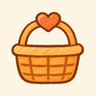
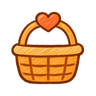
fix: remove illustration background blocks and normalize iOS arrows

diff --git a/cloudfunctions/shop/studio.js b/cloudfunctions/shop/studio.js
@@ -1,8 +1,9 @@
 (function(root,factory){if(typeof module==='object'&&module.exports)module.exports=factory();else root.Studio=factory();})(this,function(){
-const assets=[['kigi-cat-cute','可爱猫咪入口图','分类'],['kigi-dog-cute','可爱狗狗入口图','分类'],['kigi-cafe-hero','猫咪咖啡师与烘焙小狗','横幅'],['kigi-logo','商家官方标志','品牌'],['hero-v2','猫狗日常','横幅'],['hero-calm-v3','午后猫咪','横幅'],['cat-v2','猫咪肖像','分类'],['dog-v2','狗狗肖像','分类'],['food-v2','主粮示意','商品'],['toy-v2','绳结玩具','商品'],['care-v2','日常梳理','商品'],['empty-v2','猫咪与收纳篮','场景'],['bowl-v3','陶瓷食碗','商品'],['bed-v3','柔软窝垫','商品'],['snack-v3','冻干零食','商品']].map(([id,name,kind])=>({id,name,kind,src:'/assets/'+id+(['kigi-cat-cute','kigi-dog-cute'].includes(id)?'.png':'.jpg')}));
+const assets=[['kigi-cat-cute','可爱猫咪入口图','分类'],['kigi-dog-cute','可爱狗狗入口图','分类'],['kigi-cafe-hero','猫咪咖啡师与烘焙小狗','横幅'],['kigi-logo','商家官方标志','品牌'],['hero-v2','猫狗日常','横幅'],['hero-calm-v3','午后猫咪','横幅'],['cat-v2','猫咪肖像','分类'],['dog-v2','狗狗肖像','分类'],['food-v2','主粮示意','商品'],['toy-v2','绳结玩具','商品'],['care-v2','日常梳理','商品'],['empty-v2','猫咪与收纳篮','场景'],['bowl-v3','陶瓷食碗','商品'],['bed-v3','柔软窝垫','商品'],['snack-v3','冻干零食','商品']].map(([id,name,kind])=>({id,name,kind,src:'/assets/'+id+(['kigi-cat-cute','kigi-dog-cute','kigi-logo'].includes(id)?'.png':'.jpg')}));
 assets.push({id:'catalog-bakery',name:'手作烘焙插画示意',kind:'商品',src:'/assets/catalog-bakery.jpg'});
+assets.push({id:'kigi-logo-legacy',name:'官方标志（旧版）',kind:'品牌',src:'/assets/kigi-logo.jpg'},{id:'empty',name:'透明空状态插画',kind:'场景',src:'/assets/empty.png'});
 const slots=[{key:'hero',name:'首页主视觉',hint:'建议横向构图，左侧留空放标题'},{key:'cat',name:'猫咪用品入口图片',hint:'建议正方形，主体居中'},{key:'dog',name:'狗狗用品入口图片',hint:'建议正方形，主体居中'},{key:'care',name:'清洁分类图片',hint:'建议正方形，主体居中'},{key:'toy',name:'全部好物图片',hint:'建议正方形，主体居中'},{key:'avatar',name:'个人中心欢迎图',hint:'建议正方形，主体居中'},{key:'empty',name:'空购物车图片',hint:'建议清晰简洁的场景图片'}];
-function resolveStorefront(saved={}){const result={...defaults,...saved};const path=String(result.hero||'').replace(/^https?:\/\/[^/]+/,'').split(/[?#]/)[0];if(!path||['/assets/hero.png','/assets/hero.jpg','/assets/hero-v2.jpg','/assets/hero-calm-v3.jpg','/assets/kigi-cafe-hero.jpg'].includes(path))result.hero=defaults.hero;for(const slot of ['cat','dog']){const savedPath=String(result[slot]||'').replace(/^https?:\/\/[^/]+/,'').split(/[?#]/)[0];if(!savedPath||['/assets/'+slot+'.png','/assets/'+slot+'.jpg','/assets/'+slot+'-v2.jpg',defaults[slot]].includes(savedPath))result[slot]=defaults[slot];}return result;} const defaults={hero:'/assets/kigi-cafe-hero.jpg',cat:'/assets/kigi-cat-cute.png',dog:'/assets/kigi-dog-cute.png',care:'/assets/care-v2.jpg',toy:'/assets/toy-v2.jpg',avatar:'/assets/kigi-logo.jpg',empty:'/assets/empty-v2.jpg'};
+function resolveStorefront(saved={}){const result={...defaults,...saved};const path=String(result.hero||'').replace(/^https?:\/\/[^/]+/,'').split(/[?#]/)[0];if(!path||['/assets/hero.png','/assets/hero.jpg','/assets/hero-v2.jpg','/assets/hero-calm-v3.jpg','/assets/kigi-cafe-hero.jpg'].includes(path))result.hero=defaults.hero;for(const slot of ['cat','dog','empty','avatar']){const savedPath=String(result[slot]||'').replace(/^https?:\/\/[^/]+/,'').split(/[?#]/)[0];if(!savedPath||['/assets/'+slot+'.png','/assets/'+slot+'.jpg','/assets/'+slot+'-v2.jpg',defaults[slot],...(slot==='avatar'?['/assets/kigi-logo.jpg']:[])].includes(savedPath))result[slot]=defaults[slot];}return result;} const defaults={hero:'/assets/kigi-cafe-hero.jpg',cat:'/assets/kigi-cat-cute.png',dog:'/assets/kigi-dog-cute.png',care:'/assets/care-v2.jpg',toy:'/assets/toy-v2.jpg',avatar:'/assets/kigi-logo.png',empty:'/assets/empty.png'};
 const afterStages={REQUESTED:'售后待审核',REJECTED:'售后已拒绝',WITHDRAWN:'售后已撤回',WAIT_RETURN:'待买家退货',RETURN_TRANSIT:'退货待验收',WAIT_REFUND:'待退款记录',REFUND_FAILED:'退款记录失败',SUCCEEDED:'退款完成'};
 const pets=['待确认','猫咪','狗狗','通用','不适用'];
 const simulationNotes=[

diff --git a/miniprogram/lib/studio.js b/miniprogram/lib/studio.js
@@ -1,8 +1,9 @@
 (function(root,factory){if(typeof module==='object'&&module.exports)module.exports=factory();else root.Studio=factory();})(this,function(){
-const assets=[['kigi-cat-cute','可爱猫咪入口图','分类'],['kigi-dog-cute','可爱狗狗入口图','分类'],['kigi-cafe-hero','猫咪咖啡师与烘焙小狗','横幅'],['kigi-logo','商家官方标志','品牌'],['hero-v2','猫狗日常','横幅'],['hero-calm-v3','午后猫咪','横幅'],['cat-v2','猫咪肖像','分类'],['dog-v2','狗狗肖像','分类'],['food-v2','主粮示意','商品'],['toy-v2','绳结玩具','商品'],['care-v2','日常梳理','商品'],['empty-v2','猫咪与收纳篮','场景'],['bowl-v3','陶瓷食碗','商品'],['bed-v3','柔软窝垫','商品'],['snack-v3','冻干零食','商品']].map(([id,name,kind])=>({id,name,kind,src:'/assets/'+id+(['kigi-cat-cute','kigi-dog-cute'].includes(id)?'.png':'.jpg')}));
+const assets=[['kigi-cat-cute','可爱猫咪入口图','分类'],['kigi-dog-cute','可爱狗狗入口图','分类'],['kigi-cafe-hero','猫咪咖啡师与烘焙小狗','横幅'],['kigi-logo','商家官方标志','品牌'],['hero-v2','猫狗日常','横幅'],['hero-calm-v3','午后猫咪','横幅'],['cat-v2','猫咪肖像','分类'],['dog-v2','狗狗肖像','分类'],['food-v2','主粮示意','商品'],['toy-v2','绳结玩具','商品'],['care-v2','日常梳理','商品'],['empty-v2','猫咪与收纳篮','场景'],['bowl-v3','陶瓷食碗','商品'],['bed-v3','柔软窝垫','商品'],['snack-v3','冻干零食','商品']].map(([id,name,kind])=>({id,name,kind,src:'/assets/'+id+(['kigi-cat-cute','kigi-dog-cute','kigi-logo'].includes(id)?'.png':'.jpg')}));
 assets.push({id:'catalog-bakery',name:'手作烘焙插画示意',kind:'商品',src:'/assets/catalog-bakery.jpg'});
+assets.push({id:'kigi-logo-legacy',name:'官方标志（旧版）',kind:'品牌',src:'/assets/kigi-logo.jpg'},{id:'empty',name:'透明空状态插画',kind:'场景',src:'/assets/empty.png'});
 const slots=[{key:'hero',name:'首页主视觉',hint:'建议横向构图，左侧留空放标题'},{key:'cat',name:'猫咪用品入口图片',hint:'建议正方形，主体居中'},{key:'dog',name:'狗狗用品入口图片',hint:'建议正方形，主体居中'},{key:'care',name:'清洁分类图片',hint:'建议正方形，主体居中'},{key:'toy',name:'全部好物图片',hint:'建议正方形，主体居中'},{key:'avatar',name:'个人中心欢迎图',hint:'建议正方形，主体居中'},{key:'empty',name:'空购物车图片',hint:'建议清晰简洁的场景图片'}];
-function resolveStorefront(saved={}){const result={...defaults,...saved};const path=String(result.hero||'').replace(/^https?:\/\/[^/]+/,'').split(/[?#]/)[0];if(!path||['/assets/hero.png','/assets/hero.jpg','/assets/hero-v2.jpg','/assets/hero-calm-v3.jpg','/assets/kigi-cafe-hero.jpg'].includes(path))result.hero=defaults.hero;for(const slot of ['cat','dog']){const savedPath=String(result[slot]||'').replace(/^https?:\/\/[^/]+/,'').split(/[?#]/)[0];if(!savedPath||['/assets/'+slot+'.png','/assets/'+slot+'.jpg','/assets/'+slot+'-v2.jpg',defaults[slot]].includes(savedPath))result[slot]=defaults[slot];}return result;} const defaults={hero:'/assets/kigi-cafe-hero.jpg',cat:'/assets/kigi-cat-cute.png',dog:'/assets/kigi-dog-cute.png',care:'/assets/care-v2.jpg',toy:'/assets/toy-v2.jpg',avatar:'/assets/kigi-logo.jpg',empty:'/assets/empty-v2.jpg'};
+function resolveStorefront(saved={}){const result={...defaults,...saved};const path=String(result.hero||'').replace(/^https?:\/\/[^/]+/,'').split(/[?#]/)[0];if(!path||['/assets/hero.png','/assets/hero.jpg','/assets/hero-v2.jpg','/assets/hero-calm-v3.jpg','/assets/kigi-cafe-hero.jpg'].includes(path))result.hero=defaults.hero;for(const slot of ['cat','dog','empty','avatar']){const savedPath=String(result[slot]||'').replace(/^https?:\/\/[^/]+/,'').split(/[?#]/)[0];if(!savedPath||['/assets/'+slot+'.png','/assets/'+slot+'.jpg','/assets/'+slot+'-v2.jpg',defaults[slot],...(slot==='avatar'?['/assets/kigi-logo.jpg']:[])].includes(savedPath))result[slot]=defaults[slot];}return result;} const defaults={hero:'/assets/kigi-cafe-hero.jpg',cat:'/assets/kigi-cat-cute.png',dog:'/assets/kigi-dog-cute.png',care:'/assets/care-v2.jpg',toy:'/assets/toy-v2.jpg',avatar:'/assets/kigi-logo.png',empty:'/assets/empty.png'};
 const afterStages={REQUESTED:'售后待审核',REJECTED:'售后已拒绝',WITHDRAWN:'售后已撤回',WAIT_RETURN:'待买家退货',RETURN_TRANSIT:'退货待验收',WAIT_REFUND:'待退款记录',REFUND_FAILED:'退款记录失败',SUCCEEDED:'退款完成'};
 const pets=['待确认','猫咪','狗狗','通用','不适用'];
 const simulationNotes=[

diff --git a/miniprogram/pages/orders/index.js b/miniprogram/pages/orders/index.js
@@ -1,7 +1,7 @@
 const api=require('../../services/api');
 const orderDisplay=require('../../services/order-display');
 const statusText={PENDING:'待付款',PAID:'备货中',SHIPPED:'配送中',COMPLETED:'已完成',CANCELLED:'已取消',EXPIRED:'已超时',REFUND_REQUESTED:'售后审核中',REFUNDING:'退款处理中',REFUNDED:'已退款'};
-const display=o=>({...o,...orderDisplay.card(o),statusText:orderDisplay.card(o).statusText||statusText[o.status]||o.status,totalText:(o.total/100).toFixed(2),lines:o.lines.map(line=>({...line,unitText:(line.price/100).toFixed(2),displayImage:line.image||'/assets/empty-v2.jpg'}))});
+const display=o=>({...o,...orderDisplay.card(o),statusText:orderDisplay.card(o).statusText||statusText[o.status]||o.status,totalText:(o.total/100).toFixed(2),lines:o.lines.map(line=>({...line,unitText:(line.price/100).toFixed(2),displayImage:line.image||'/assets/empty.png'}))});
 Page({
  requestEpoch:0,
  onHide(){this.requestEpoch++;this.setData({busy:false,orders:[],page:0,pages:0,total:0});},

diff --git a/docs/COZY-ILLUSTRATION-THEME.md b/docs/COZY-ILLUSTRATION-THEME.md
@@ -16,6 +16,12 @@
 
 分类检查：`node scripts/catalog-coverage.cjs <merchantProducts.json>`，检查咖啡、烘焙以及猫狗各五类的上架商品、库存和配图；发现缺口时返回非零退出码。历史商品快照只能用于准备，不能据此声称当前云端齐全。
 
+## iPhone 视觉修正
+
+咖啡烘焙、会员、自提及快递入口的斜箭头改用 WXSS 线条绘制，不再依赖可能显示为蓝色表情的箭头字符。猫狗入口 PNG 使用透明底切图，避免图片的奶油纸底与卡片底色形成方块。原图保留，`manifest.json` 的 `cutoutOriginal` 指向透明原稿；压缩脚本在生成 PNG 时保留 alpha，旧 JPG 仍从有背景原稿生成。
+
+透明图编辑使用内置 imagegen。提示词：仅移除原插画的整块奶油纸背景，输出真实透明 PNG；保留原猫咪/狗狗的造型、表情、衣服、配色、彩铅蜡笔纹理及小星星；毛色和帽子内部保持不透明，星星和胡须之间也应透明，不绘制棋盘格或新的矩形底色。
+
 ## 字体与样式
 
 标题使用 ZCOOL KuaiLe（站酷快乐体）的 UI 字符子集，以 WOFF2 内嵌在 WXSS 中，无需远程字体服务。价格、商品名称、正文、订单号码保持常规清晰字体；新增且未收录的标题字符会回退到系统字体。
@@ -31,3 +37,15 @@
 - 使用本机微信 WXML / WXSS 编译器验证页面和字体样式；开发者工具实际检查首页、咖啡分类、购物车、个人中心与订单列表，返回导航正常。
 - 此次不修改支付、余额、订单状态或数据库逻辑。
 - 本地预览更新不等于手机体验版更新，重新上传和发布需另行执行。
+
+### 全图片背景审查（2026-11-03）
+
+逐张查看 assets 目录原有 39 张图片及新增透明 Logo，并在开发工具首页、个人中心查看实际叠放效果。商品图及横幅保留完整插画背景；猫狗入口、四个导航图标、空状态图和 Logo 使用真正透明 PNG，保留旧 JPEG 路径兼容历史配置。透明源图保存在 source-assets/cozy/*-transparent.png，运行图由 scripts/cozy-assets.cjs 压缩生成。
+
+修复配送卡片第二项旧 nth-child 灰底覆盖；导航选中背景改为 #fff3dc。空状态和 Logo 的旧配置解析到新资源，自定义远程图片保持原值。所有箭头不再使用容易变成 emoji 的 ↗ 字符。
+
+生成工具：内置 image_gen，transparent_background=true。导航及空状态提示词：Remove only the cream paper background from this existing illustration to genuine transparent alpha. Preserve exact illustration, composition, size, colors, crayon texture and opaque cream fills INSIDE the subject. Make spaces around and between the subject and detached details transparent including handle holes. No background square, no halo, no checkerboard. This is a mini program UI overlay icon.
+
+Logo 提示词：Remove only the pure white background from this official logo, output genuine transparent alpha. Preserve EXACT logo lettering KIGIwish and Chinese 奇迹味时, all shapes, orange color, spacing and positions and square canvas. Do not redraw or reinterpret any glyph. White negative spaces between letters and outside logo must be transparent. No shadow, no new border, no checkerboard.
+
+验证：159 文件语法/JSON 检查、studio 8 项测试、WXML/WXSS 官方编译器通过。8 张主要叠放资源均含有效 alpha，assets 总量 535620 bytes。开发工具首页与个人中心确认无猫狗/导航/Logo 方块、配送卡片为浅色；手机体验版需用户重新上传后复核，未宣称已完成真实 iPhone 回归。
